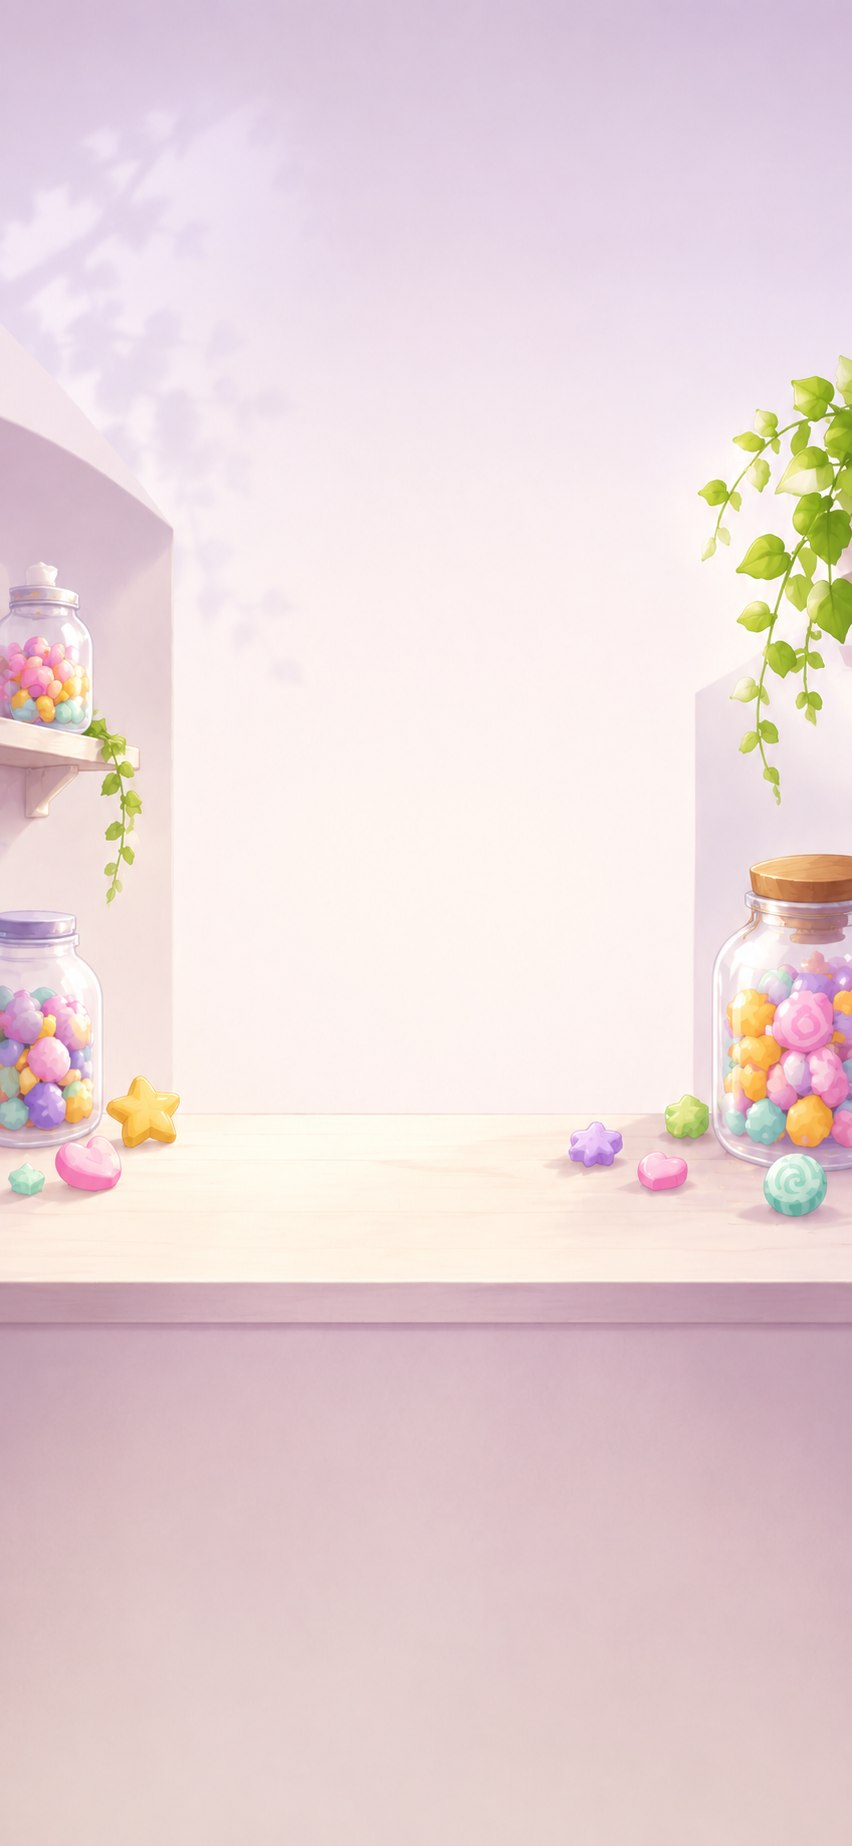
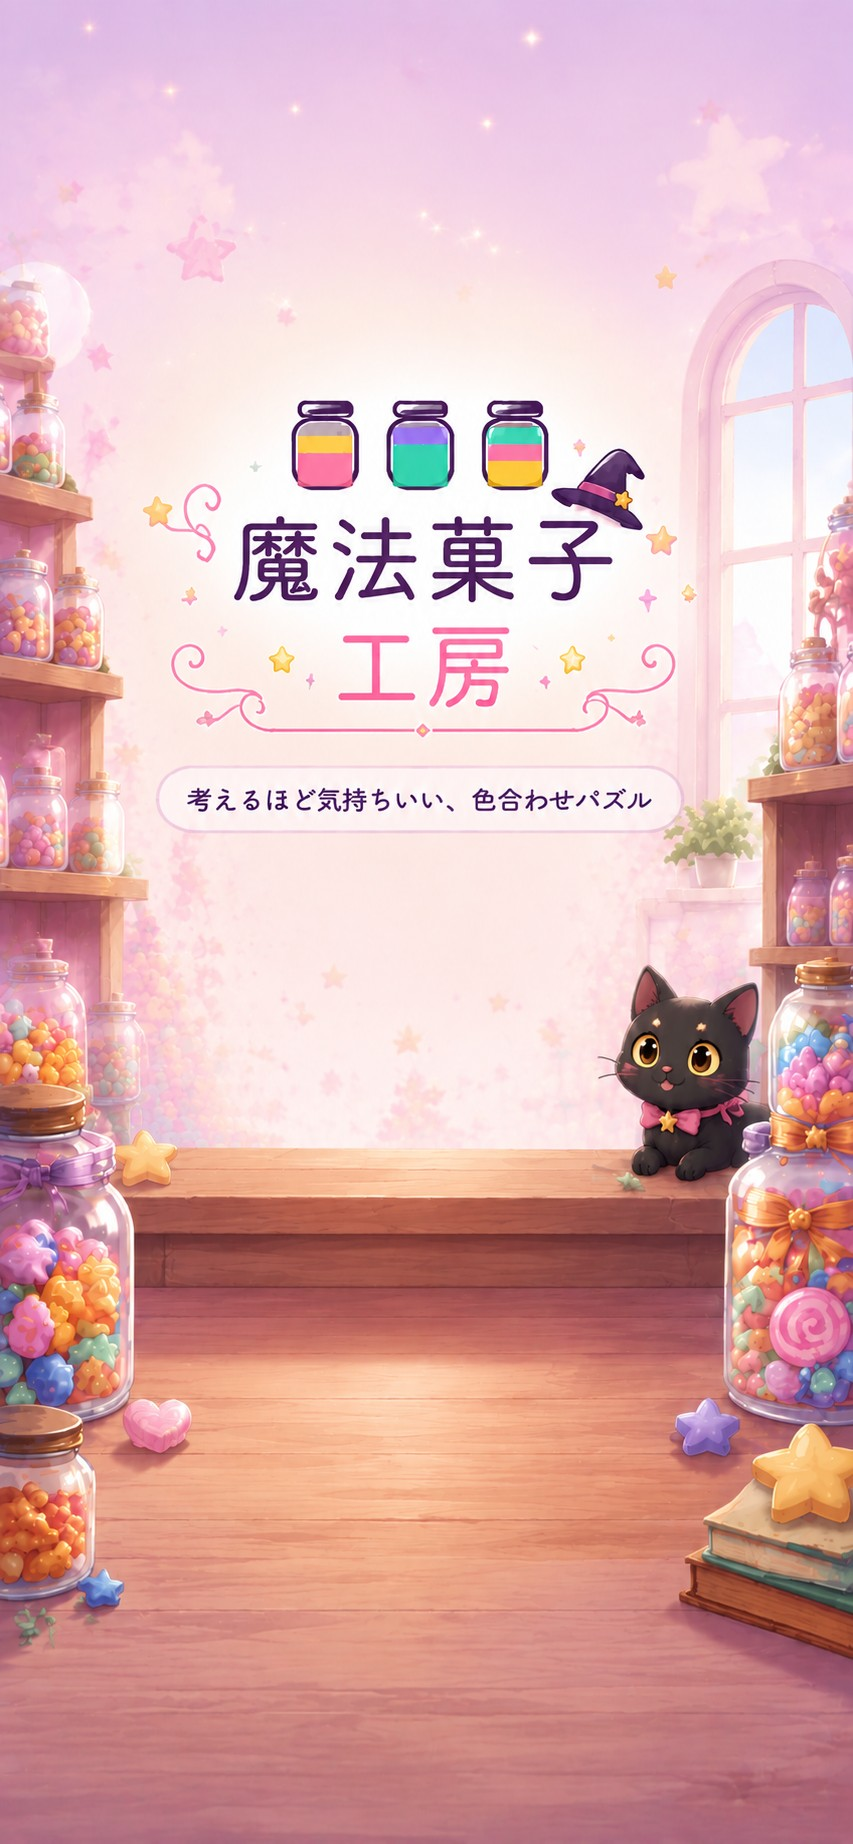
Add files via upload

diff --git a/index.html b/index.html
@@ -329,16 +329,7 @@
           <div class="icon-btn" id="btnMuteTitle">🔇</div>
         </div>
       </div>
-      <div class="logo-zone">
-        <div class="logo-jars">
-          <svg width="34" height="42" viewBox="0 0 34 42"><rect x="4" y="0" width="26" height="8" rx="3" fill="#4A2E58"/><rect x="2" y="8" width="30" height="32" rx="10" fill="#fff" stroke="#4A2E58" stroke-width="2.5"/><rect x="4" y="24" width="26" height="16" fill="#FF7FAE"/><rect x="4" y="16" width="26" height="8" fill="#FFD65C"/></svg>
-          <svg width="34" height="42" viewBox="0 0 34 42"><rect x="4" y="0" width="26" height="8" rx="3" fill="#4A2E58"/><rect x="2" y="8" width="30" height="32" rx="10" fill="#fff" stroke="#4A2E58" stroke-width="2.5"/><rect x="4" y="20" width="26" height="20" fill="#5FE0B8"/><rect x="4" y="12" width="26" height="8" fill="#B48CFF"/></svg>
-          <svg width="34" height="42" viewBox="0 0 34 42"><rect x="4" y="0" width="26" height="8" rx="3" fill="#4A2E58"/><rect x="2" y="8" width="30" height="32" rx="10" fill="#fff" stroke="#4A2E58" stroke-width="2.5"/><rect x="4" y="28" width="26" height="12" fill="#FFD65C"/><rect x="4" y="20" width="26" height="8" fill="#FF7FAE"/><rect x="4" y="12" width="26" height="8" fill="#5FE0B8"/></svg>
-        </div>
-        <div class="logo-title">魔法菓子<br><span class="accent">工房</span></div>
-        <div class="title-divider"><span class="dot"></span><span class="line"></span><span class="star">★</span><span class="line"></span><span class="dot"></span></div>
-        <div class="tagline-plain">考えるほど気持ちいい、色合わせパズル</div>
-      </div>
+      <div class="logo-zone"></div>
       <div class="menu-zone">
         <button class="jar-btn primary" id="btnStart">スタート (LEVEL <span id="titleLevel">1</span>)</button>
         <div class="level-select-link" id="btnGoLevels">🗂 クリア済みレベルを選んで遊ぶ ▸</div>
